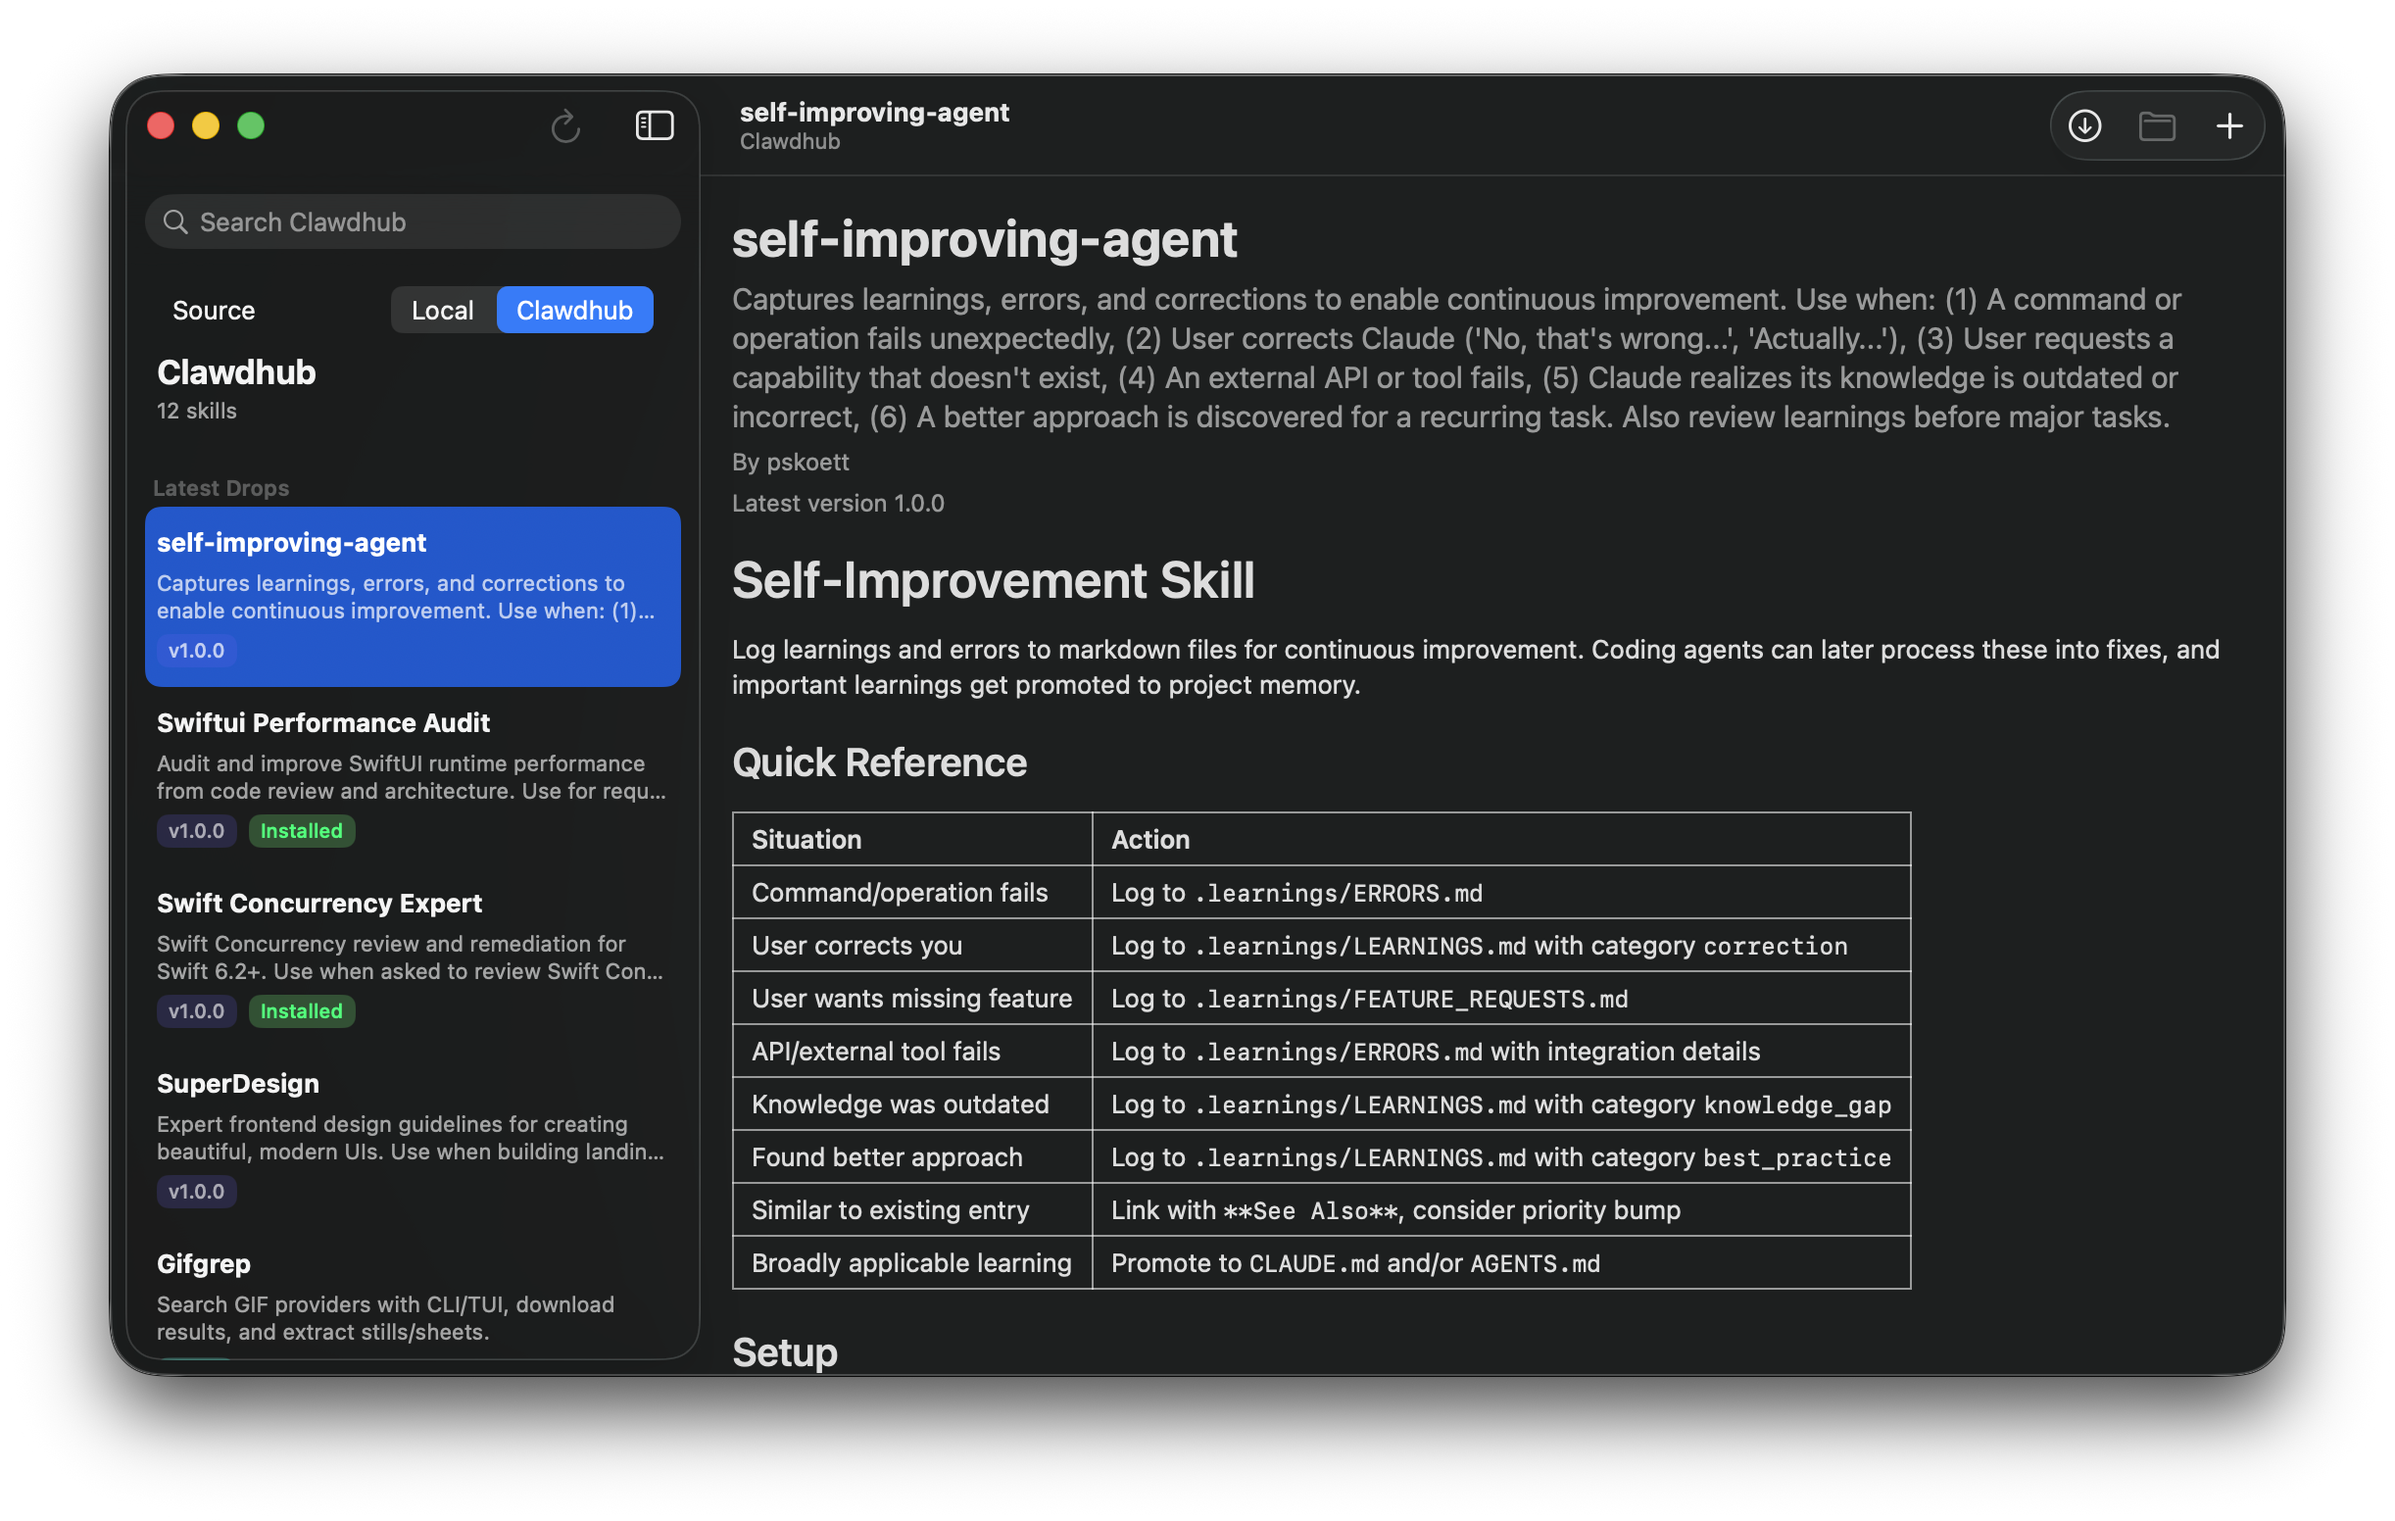
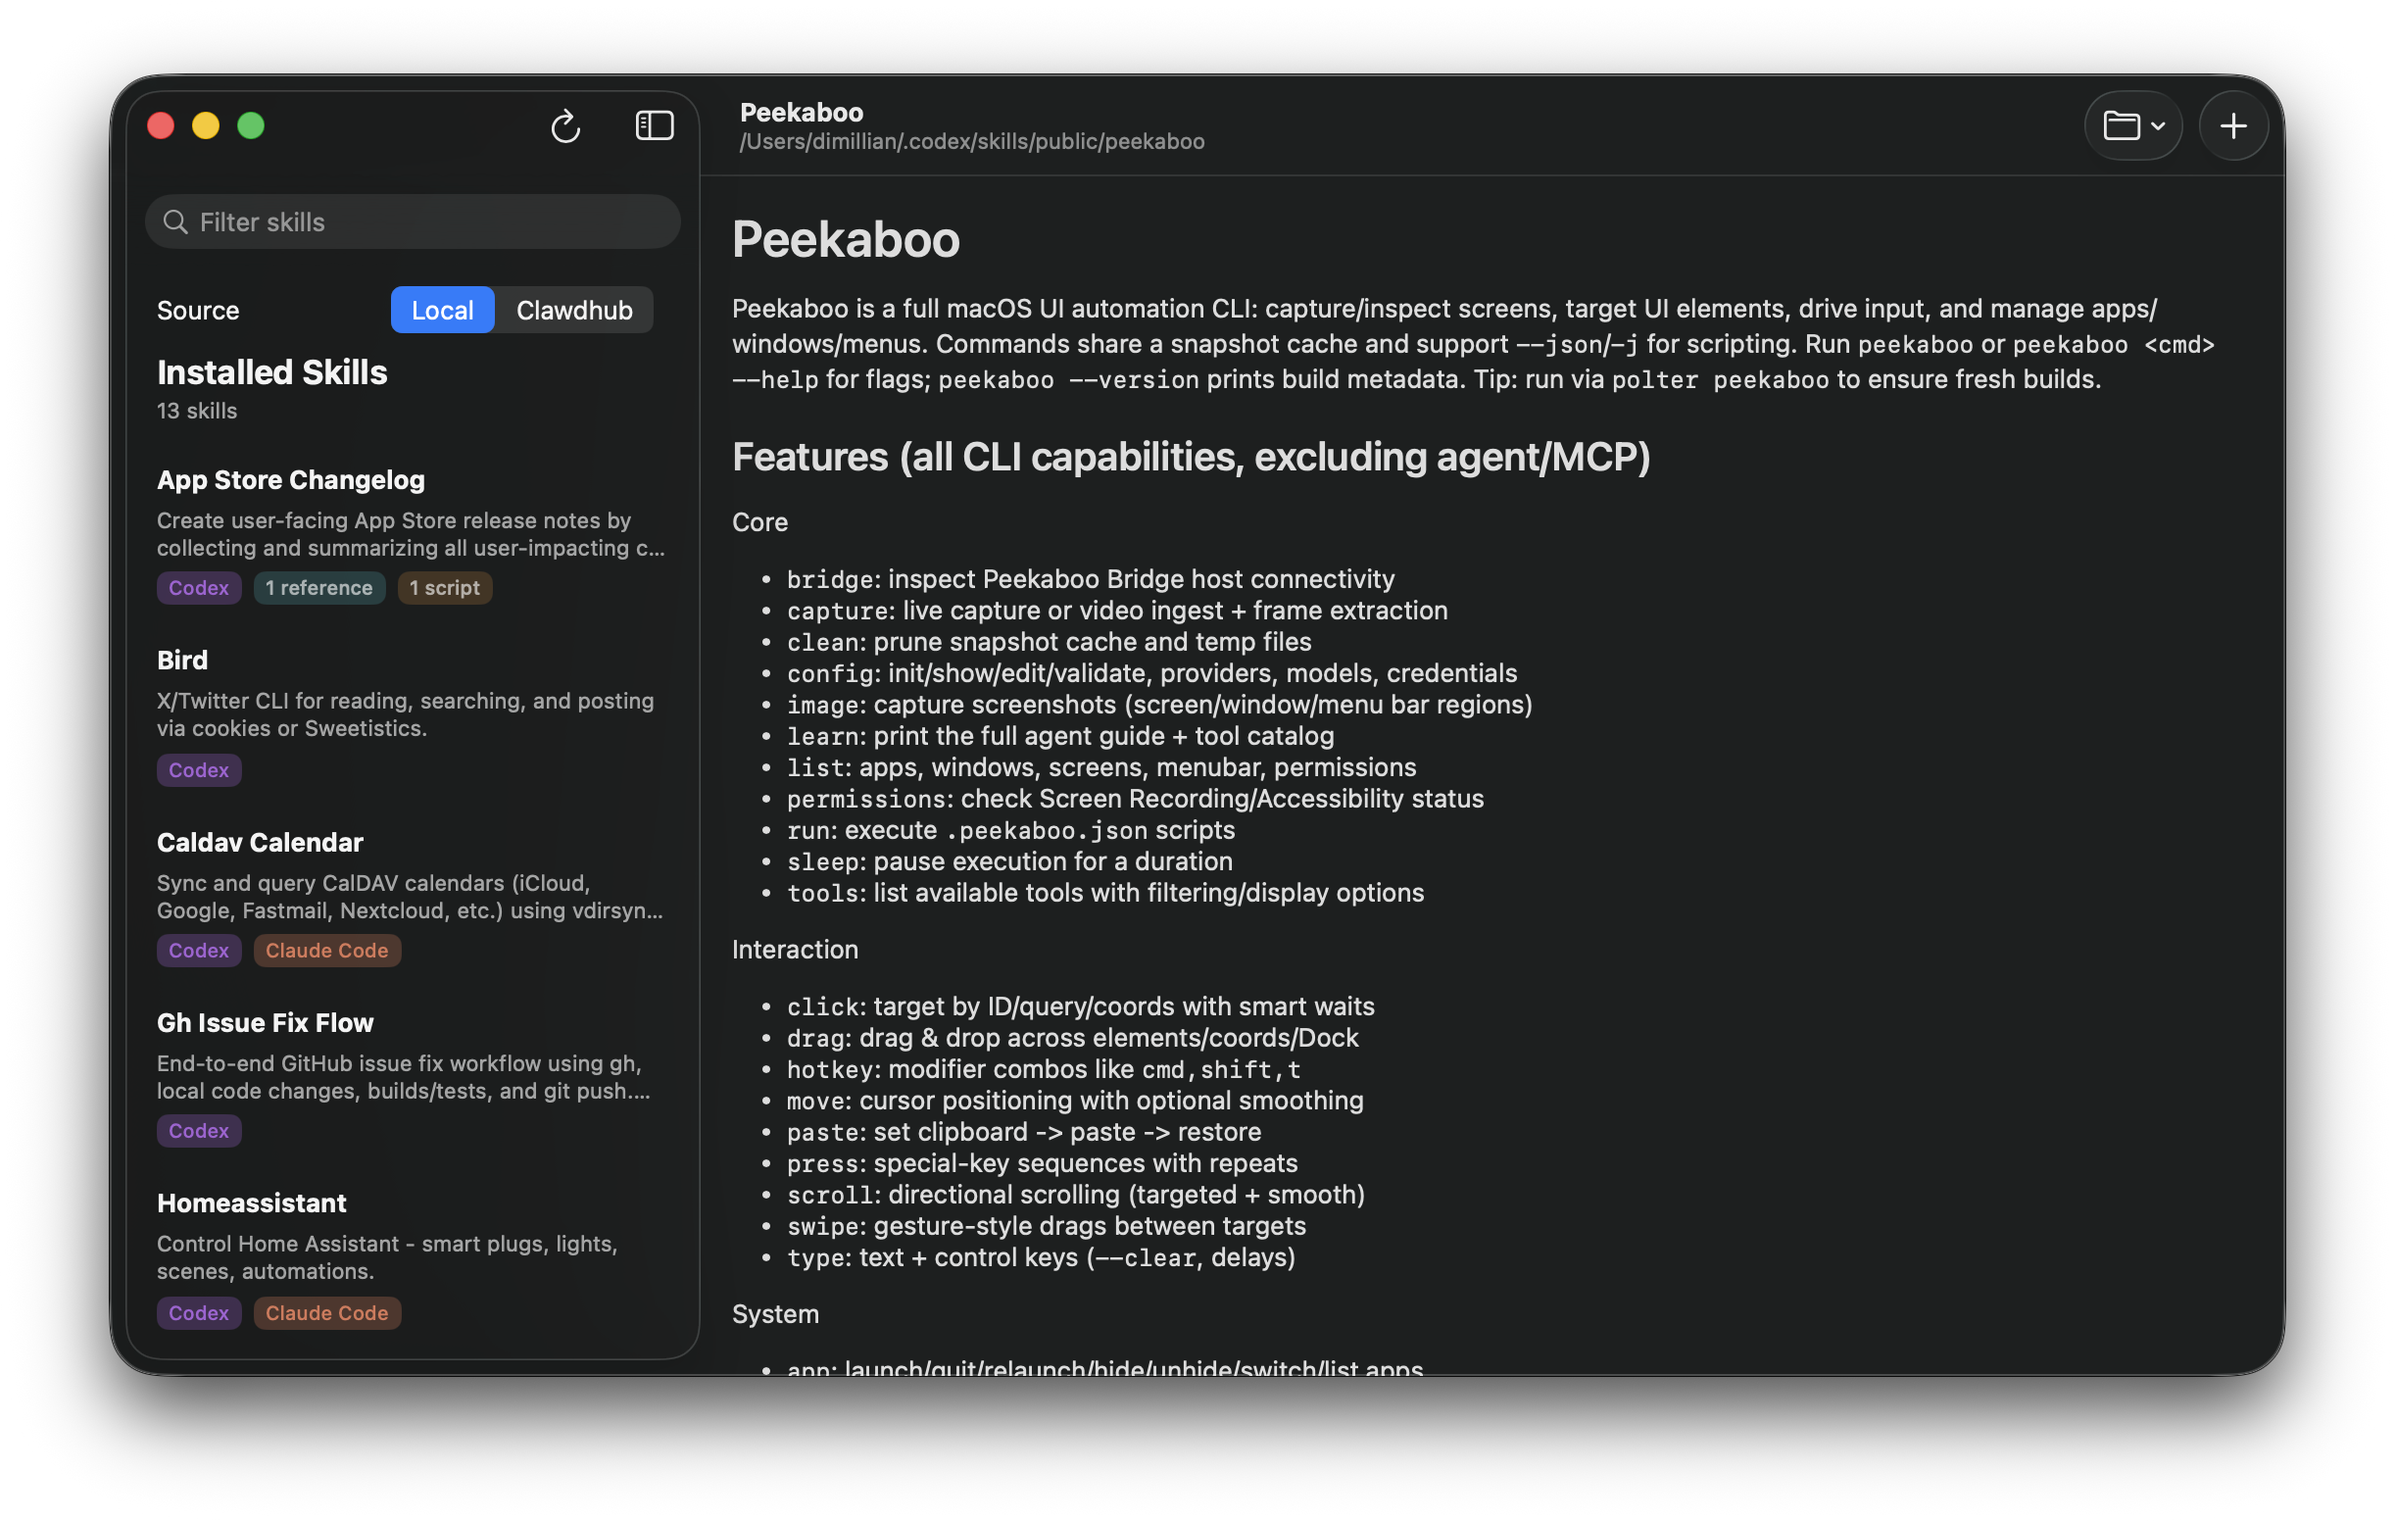
feat: polish local skill grouping

diff --git a/Sources/CodexSkillManager/Skills/SkillSplitView.swift b/Sources/CodexSkillManager/Skills/SkillSplitView.swift
@@ -113,13 +113,7 @@ struct SkillSplitView: View {
         }
 
         ToolbarItem(id: "open") {
-            Button {
-                openSelectedSkillFolder()
-            } label: {
-                Label("Open Skill Folder", systemImage: "folder")
-            }
-            .labelStyle(.iconOnly)
-            .disabled(source != .local)
+            openFolderItem
         }
 
         ToolbarSpacer(.fixed)
@@ -168,11 +162,52 @@ struct SkillSplitView: View {
         }
     }
 
-    private func openSelectedSkillFolder() {
+    @ViewBuilder
+    private var openFolderItem: some View {
+        if shouldShowOpenFolderMenu {
+            Menu {
+                ForEach(SkillPlatform.allCases) { platform in
+                    if installedPlatformsForSelected.contains(platform) {
+                        Button("Open \(platform.rawValue) Folder") {
+                            openSelectedSkillFolder(platform: platform)
+                        }
+                    }
+                }
+            } label: {
+                Label("Open Skill Folder", systemImage: "folder")
+            }
+            .labelStyle(.iconOnly)
+            .disabled(source != .local)
+        } else {
+            Button {
+                openSelectedSkillFolder(platform: nil)
+            } label: {
+                Label("Open Skill Folder", systemImage: "folder")
+            }
+            .labelStyle(.iconOnly)
+            .disabled(source != .local)
+        }
+    }
+
+    private var shouldShowOpenFolderMenu: Bool {
+        installedPlatformsForSelected.count > 1
+    }
+
+    private var installedPlatformsForSelected: Set<SkillPlatform> {
+        guard source == .local, let slug = store.selectedSkill?.name else { return [] }
+        return store.installedPlatforms(for: slug)
+    }
+
+    private func openSelectedSkillFolder(platform: SkillPlatform?) {
         guard source == .local else { return }
-        let url = store.selectedSkill?.folderURL
-            ?? FileManager.default.homeDirectoryForCurrentUser
-                .appendingPathComponent(".codex/skills/public")
+        let url: URL
+        if let platform, let slug = store.selectedSkill?.name {
+            url = platform.rootURL.appendingPathComponent(slug)
+        } else {
+            url = store.selectedSkill?.folderURL
+                ?? FileManager.default.homeDirectoryForCurrentUser
+                    .appendingPathComponent(".codex/skills/public")
+        }
         NSWorkspace.shared.open(url)
     }
 

diff --git a/Sources/CodexSkillManager/Skills/Sidebar/SkillListView.swift b/Sources/CodexSkillManager/Skills/Sidebar/SkillListView.swift
@@ -15,40 +15,8 @@ struct SkillListView: View {
     @Binding var localSelection: Skill.ID?
     @Binding var remoteSelection: RemoteSkill.ID?
 
-    private struct LocalSkillGroup: Identifiable {
-        let id: Skill.ID
-        let skill: Skill
-        let installedPlatforms: Set<SkillPlatform>
-        let deleteIDs: [Skill.ID]
-    }
-
-    private var groupedLocalSkills: [LocalSkillGroup] {
-        let grouped = Dictionary(grouping: localSkills, by: { $0.name })
-        let preferredPlatformOrder: [SkillPlatform] = [.codex, .claude]
-
-        return grouped.compactMap { slug, filteredSkills in
-            let allSkillsForSlug = store.skills.filter { $0.name == slug }
-
-            guard let preferredSelection = preferredPlatformOrder
-                .compactMap({ platform in allSkillsForSlug.first(where: { $0.platform == platform }) })
-                .first ?? allSkillsForSlug.first else {
-                return nil
-            }
-
-            let preferredContent = preferredPlatformOrder
-                .compactMap({ platform in filteredSkills.first(where: { $0.platform == platform }) })
-                .first ?? filteredSkills.first ?? preferredSelection
-
-            return LocalSkillGroup(
-                id: preferredSelection.id,
-                skill: preferredContent,
-                installedPlatforms: Set(allSkillsForSlug.map(\.platform)),
-                deleteIDs: allSkillsForSlug.map(\.id)
-            )
-        }
-        .sorted { lhs, rhs in
-            lhs.skill.displayName.localizedCaseInsensitiveCompare(rhs.skill.displayName) == .orderedAscending
-        }
+    private var groupedLocalSkills: [SkillStore.LocalSkillGroup] {
+        store.groupedLocalSkills(from: localSkills)
     }
 
     var body: some View {
@@ -156,7 +124,7 @@ struct SkillListView: View {
     }
 
     @ViewBuilder
-    private func localSectionContent(_ skills: [LocalSkillGroup]) -> some View {
+    private func localSectionContent(_ skills: [SkillStore.LocalSkillGroup]) -> some View {
         if skills.isEmpty {
             Text("No skills yet.")
                 .foregroundStyle(.secondary)

diff --git a/Sources/CodexSkillManager/Skills/Local/SkillStore.swift b/Sources/CodexSkillManager/Skills/Local/SkillStore.swift
@@ -18,6 +18,13 @@ import Observation
         case failed(String)
     }
 
+    struct LocalSkillGroup: Identifiable {
+        let id: Skill.ID
+        let skill: Skill
+        let installedPlatforms: Set<SkillPlatform>
+        let deleteIDs: [Skill.ID]
+    }
+
     var skills: [Skill] = []
     var listState: ListState = .idle
     var detailState: DetailState = .idle
@@ -134,6 +141,35 @@ import Observation
 
     func installedPlatforms(for slug: String) -> Set<SkillPlatform> {
         Set(skills.filter { $0.name == slug }.map(\.platform))
+    }
+
+    func groupedLocalSkills(from filteredSkills: [Skill]) -> [LocalSkillGroup] {
+        let grouped = Dictionary(grouping: filteredSkills, by: { $0.name })
+        let preferredPlatformOrder: [SkillPlatform] = [.codex, .claude]
+
+        return grouped.compactMap { slug, filteredSkills in
+            let allSkillsForSlug = skills.filter { $0.name == slug }
+
+            guard let preferredSelection = preferredPlatformOrder
+                .compactMap({ platform in allSkillsForSlug.first(where: { $0.platform == platform }) })
+                .first ?? allSkillsForSlug.first else {
+                return nil
+            }
+
+            let preferredContent = preferredPlatformOrder
+                .compactMap({ platform in filteredSkills.first(where: { $0.platform == platform }) })
+                .first ?? filteredSkills.first ?? preferredSelection
+
+            return LocalSkillGroup(
+                id: preferredSelection.id,
+                skill: preferredContent,
+                installedPlatforms: Set(allSkillsForSlug.map(\.platform)),
+                deleteIDs: allSkillsForSlug.map(\.id)
+            )
+        }
+        .sorted { lhs, rhs in
+            lhs.skill.displayName.localizedCaseInsensitiveCompare(rhs.skill.displayName) == .orderedAscending
+        }
     }
 
     private func normalizeSelectionToPreferredPlatform() {

diff --git a/Sources/CodexSkillManager/Skills/Shared/SkillPlatform.swift b/Sources/CodexSkillManager/Skills/Shared/SkillPlatform.swift
@@ -1,4 +1,4 @@
-import Foundation
+import SwiftUI
 
 enum SkillPlatform: String, CaseIterable, Identifiable, Hashable {
     case codex = "Codex"
@@ -31,6 +31,15 @@ enum SkillPlatform: String, CaseIterable, Identifiable, Hashable {
             return "Install in \(rootURL.path)"
         case .claude:
             return "Install in \(rootURL.path)"
+        }
+    }
+
+    var badgeTint: Color {
+        switch self {
+        case .codex:
+            return Color(red: 164.0 / 255.0, green: 97.0 / 255.0, blue: 212.0 / 255.0)
+        case .claude:
+            return Color(red: 217.0 / 255.0, green: 119.0 / 255.0, blue: 87.0 / 255.0)
         }
     }
 }

diff --git a/Sources/CodexSkillManager/Skills/Sidebar/SkillRowView.swift b/Sources/CodexSkillManager/Skills/Sidebar/SkillRowView.swift
@@ -26,7 +26,7 @@ struct SkillRowView: View {
             HStack(spacing: 6) {
                 ForEach(SkillPlatform.allCases) { platform in
                     if installedPlatforms.contains(platform) {
-                        TagView(text: platform.rawValue, tint: .green)
+                        TagView(text: platform.rawValue, tint: platform.badgeTint)
                     }
                 }
 

diff --git a/Sources/CodexSkillManager/Skills/Sidebar/RemoteSkillRowView.swift b/Sources/CodexSkillManager/Skills/Sidebar/RemoteSkillRowView.swift
@@ -24,7 +24,7 @@ struct RemoteSkillRowView: View {
 
                 ForEach(SkillPlatform.allCases) { platform in
                     if installedTargets.contains(platform) {
-                        TagView(text: platform.rawValue, tint: .green)
+                        TagView(text: platform.rawValue, tint: platform.badgeTint)
                     }
                 }
             }
